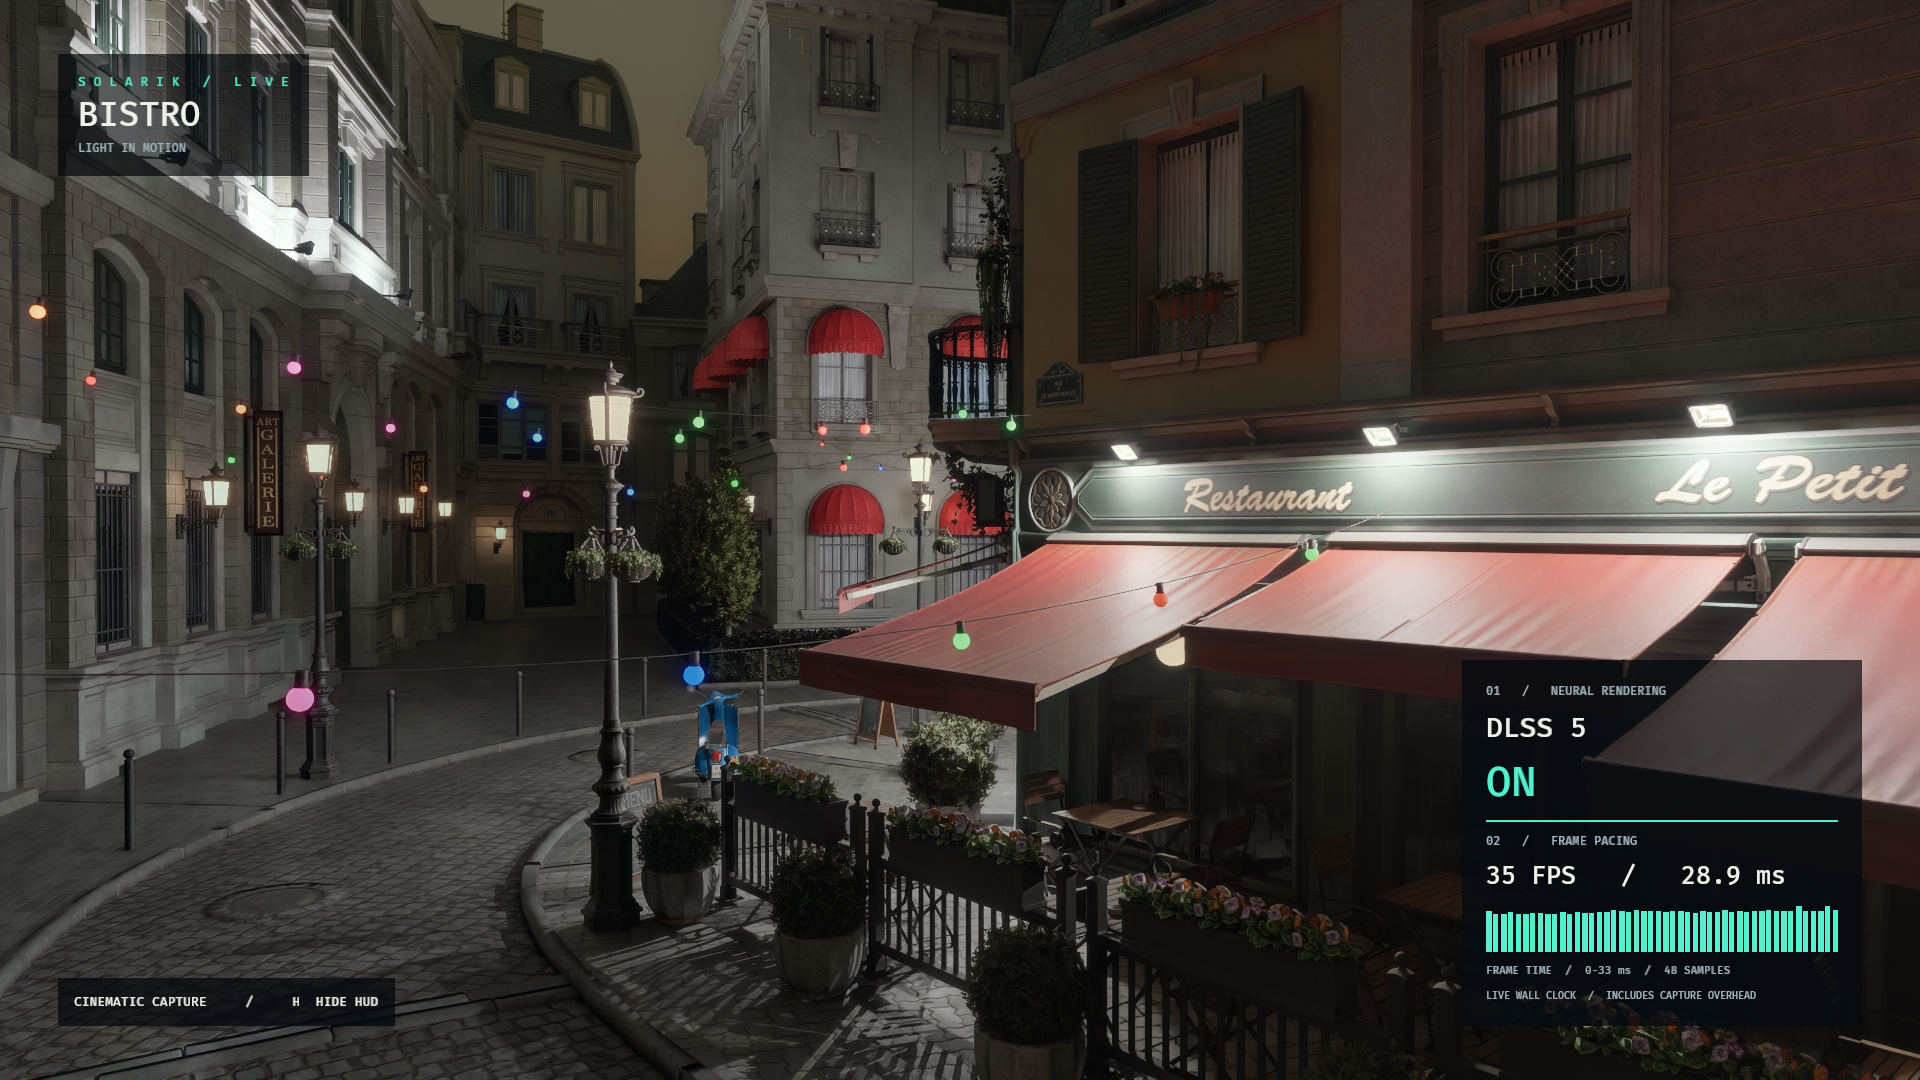
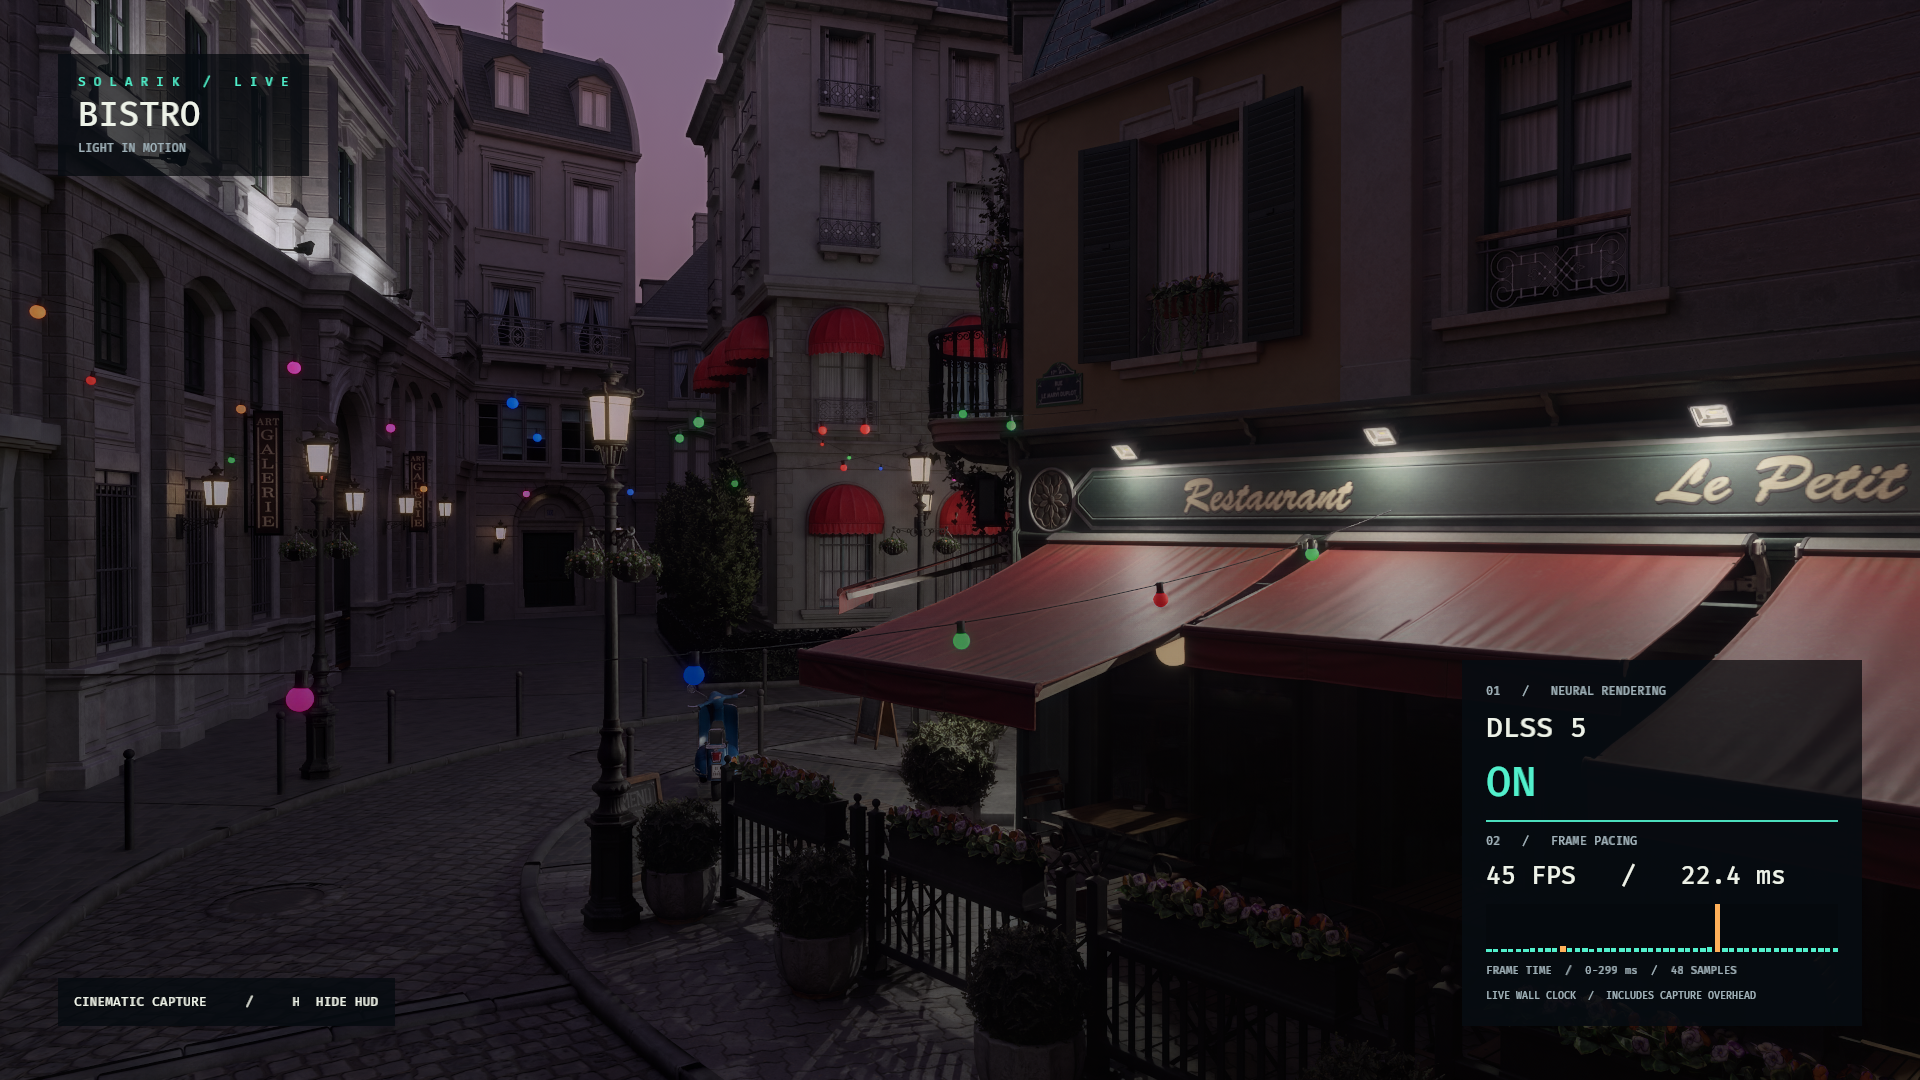
fix: release neural rendering resources before teardown

diff --git a/src/lib.rs b/src/lib.rs
@@ -4,6 +4,7 @@ mod bridge;
 mod ngx;
 pub mod patch;
 
+use bevy::app::AppExit;
 use bevy::camera::{CameraMainTextureUsages, Hdr};
 use bevy::core_pipeline::prepass::{DepthPrepass, MotionVectorPrepass, ViewPrepassTextures};
 use bevy::core_pipeline::tonemapping::tonemapping;
@@ -17,7 +18,7 @@ use bevy::render::sync_component::SyncComponent;
 use bevy::render::sync_component::SyncComponentPlugin;
 use bevy::render::sync_world::{MainEntity, RenderEntity};
 use bevy::render::view::ViewTarget;
-use bevy::render::{Extract, ExtractSchedule, RenderApp};
+use bevy::render::{Extract, ExtractSchedule, Render, RenderApp, RenderSystems};
 
 use bridge::Bridge;
 use ngx::{NgxCore, ResourceVk};
@@ -387,9 +388,11 @@ impl Plugin for DlssNeuralRenderingPlugin {
                 project_id: self.project_id.clone(),
                 status,
                 views: HashMap::new(),
+                device: None,
             }),
         });
         render_app.add_systems(ExtractSchedule, extract_dlss_settings);
+        render_app.add_systems(Render, shutdown_dlss_runtime.in_set(RenderSystems::Cleanup));
         // Must run after tonemapping: feature 18 wants display-referred color,
         // and the sRGB bridge clamps to [0, 1]. Without this constraint the
         // scheduler put the node before tonemapping, the clamp cut the HDR
@@ -417,7 +420,11 @@ fn clear_reset_requests(mut cams: Query<&mut DlssNeuralRendering>) {
 fn extract_dlss_settings(
     mut commands: Commands,
     cams: Extract<Query<(RenderEntity, &DlssNeuralRendering)>>,
+    exits: Extract<Res<Messages<AppExit>>>,
 ) {
+    if !exits.is_empty() {
+        commands.insert_resource(Dlss5Shutdown);
+    }
     for (render_entity, settings) in &cams {
         commands.entity(render_entity).insert(settings.clone());
     }
@@ -426,6 +433,9 @@ fn extract_dlss_settings(
 // ---------------------------------------------------------------------------
 // Render-world runtime (lazily initialized; per-view feature handles)
 // ---------------------------------------------------------------------------
+
+#[derive(Resource)]
+struct Dlss5Shutdown;
 
 #[derive(Resource)]
 struct Dlss5Runtime {
@@ -439,7 +449,56 @@ struct Runtime {
     status: DlssNeuralRenderingStatus,
     /// Keyed by the *main-world* camera entity (stable across frames).
     views: HashMap<Entity, ViewState>,
+    // Keep Vulkan alive until features and the snippet library are released.
+    device: Option<RenderDevice>,
 }
+
+impl Runtime {
+    fn shutdown(&mut self) {
+        let Some(core) = &self.core else {
+            return;
+        };
+        if let Some(device) = &self.device {
+            if let Err(error) = device.poll(wgpu::PollType::wait_indefinitely()) {
+                warn!("bevy_dlss5: waiting for GPU work during shutdown failed: {error}");
+            }
+        }
+        let count = self.views.len();
+        for (_, view) in self.views.drain() {
+            if view.feature != 0 {
+                // SAFETY: this core created the handle, the owning device is
+                // retained, queued work has finished, and shutdown is exclusive.
+                unsafe { core.release_feature(view.feature as *mut c_void) };
+            }
+        }
+        // The bridge textures and feature handles must go before DLL unload.
+        self.core = None;
+        self.device = None;
+        self.failed = true;
+        self.status.set(STATUS_UNKNOWN);
+        info!("bevy_dlss5: released {count} view(s) before runtime shutdown");
+    }
+}
+
+impl Drop for Runtime {
+    fn drop(&mut self) {
+        // Also cover an application dropping its App without an AppExit message.
+        self.shutdown();
+    }
+}
+
+fn shutdown_dlss_runtime(shutdown: Option<Res<Dlss5Shutdown>>, mut runtime: ResMut<Dlss5Runtime>) {
+    if shutdown.is_none() {
+        return;
+    }
+    // Cleanup runs after render submission, while other NGX users (including
+    // Ray Reconstruction) and their SDK resources still exist in the world.
+    match runtime.inner.get_mut() {
+        Ok(inner) => inner.shutdown(),
+        Err(poisoned) => poisoned.into_inner().shutdown(),
+    }
+}
+
 struct ViewState {
     /// Feature-18 handle as usize so ViewState stays Send + Sync. 0 = failed.
     feature: usize,
@@ -513,6 +572,7 @@ fn dlss_nr_node(
             Ok(core) => {
                 info!("bevy_dlss5: DLSS 5 Neural Rendering initialized");
                 guard.status.set(STATUS_ACTIVE);
+                guard.device = Some((*device).clone());
                 guard.core = Some(core);
             }
             Err(reason) => {

diff --git a/src/ngx.rs b/src/ngx.rs
@@ -96,8 +96,8 @@ pub struct NgxCore {
     eval: PfnEval,
     release: PfnRelease,
 }
-// SAFETY: the raw pointers/handles are only touched on the render thread, which
-// this crate serializes behind a Mutex.
+// SAFETY: render access is serialized behind a Mutex. Shutdown has exclusive
+// access, retains the device and waits for submitted work before releasing handles.
 unsafe impl Send for NgxCore {}
 unsafe impl Sync for NgxCore {}
 

diff --git a/docs/captures.md b/docs/captures.md
@@ -1,5 +1,77 @@
 # README capture record
 
+## Current GPU atmosphere images
+
+September 6, 2026 (local): captured from the integrated release build containing
+the GPU clear-sky atmosphere, stable fixed-camera interpolation and shared
+HUD/diagnostic registration, normal capture shutdown and explicit NR resource
+cleanup before runtime unload. Source bases are Solarik `cc1f9e6`, playground
+`460be24` and DLSS5 `4f37244`, plus this iteration's changes.
+Executable SHA-256:
[1 lines of base64/hex data omitted]
+Windows/Vulkan on RTX 4090, NVIDIA Studio driver 616.56; GPU timestamp
+instrumentation disabled for these images. Build with
+`cargo build --release --locked` in the playground. After capture, the staged
+whitespace check removed exactly one trailing newline from `model.wgsl`;
+all other source bytes match the build manifest. The preserved captured shader
+and final artifact audit verify that sole formatting difference.
+
+The original Bistro exterior and matching cafe interior are loaded. Both
+render modes use Solarik and native-resolution DLSS Ray Reconstruction.
+The atmosphere uses the High preset quality, density scales 1, Mie g 0.8,
+2,000 m aerial distance and IBL scale 1. Camera exposure follows the authored
+12.5/5.0 EV100 day/night curve. Local artistic fog and extra grading are off;
+`SCENE_FX=blur` retains the usual camera effects. Camera and lighting stay
+fixed during warmup. Historical `night` filenames below contain dusk views.
+
+All four README images use 1920×1080 rendering: day at timeline 750 / 1800
+with 512 warmup frames, dusk at 1520 / 1800 with 1,024 warmup frames.
+Both full HUD images have Neural Rendering ON. The comparison sources use
+matching camera, exposure and warmup with NR OFF/ON in separate runs.
+
+Independent warmups hold camera and lighting fixed. The metric is regional
+mean sRGB-decoded display-linear luminance with weights (0.2126, 0.7152, 0.0722).
+Absolute changes use the same 0–1 display-linear scale.
+
+| View / region | Rectangle x, y, width, height | Warmup comparison | Luminance change | Absolute change |
+| --- | --- | --- | ---: | ---: |
+| HUD day pavement | 215, 965, 275, 95 | 128 to 512 | -1.12% | -0.000207 |
+| HUD day facade | 1125, 50, 450, 225 | 128 to 512 | -1.81% | -0.000558 |
+| HUD day wall | 555, 590, 250, 165 | 128 to 512 | +0.34% | +0.000029 |
+| HUD dusk pavement | 50, 860, 380, 125 | 512 to 1024 | +0.88% | +0.000087 |
+| HUD dusk facade | 65, 75, 335, 225 | 512 to 1024 | +1.44% | +0.001054 |
+| HUD dusk wall | 1075, 830, 255, 140 | 512 to 1024 | +0.10% | +0.000003 |
+
+These NR-off regional means change at most 1.81% by day and 1.44% at dusk.
+This checks the underlying lighting warmup; it does not establish full convergence
+or quantify NR reconstruction accuracy. All final HUD and comparison images
+were inspected. Shadow variation and foliage softness remain.
+
+The complete set of 16 serial captures exited normally, produced fresh PNGs
+and had no shader/validation errors or Windows NVIDIA driver events. Both NR
+ON logs confirm active evaluation and explicit feature release before shutdown.
+
+The comparison images preserve source pixels on each side of the diagonal.
+Only a three-pixel divider and a 100-pixel external label strip are added.
+The lower-right HUD comes from the ON image. Stochastic lighting differences
+remain between runs, and HUD frame times include capture overhead; these
+pictures do not benchmark the isolated cost of Neural Rendering.
+
+After the release build, reproduce the ON sources from the playground in Git Bash:
+
+```bash
+SCENE=bistro SCENE_HUD=1 NR_RES=1920x1080 NR_START=750 NR_TIMELINE=1800 NR_CAPTURE=1 NR_WARMUP=512 SCENE_FX=blur SCENE_DIAG=0 NR_OUT=../artifacts/bevy-sponza/sky-hud-day-on-512 python tools/launch.py capture on
+SCENE=bistro SCENE_HUD=1 NR_RES=1920x1080 NR_START=1520 NR_TIMELINE=1800 NR_CAPTURE=1 NR_WARMUP=1024 SCENE_FX=blur SCENE_DIAG=0 NR_OUT=../artifacts/bevy-sponza/sky-hud-night-on-1024 python tools/launch.py capture on
+```
+
+Repeat with `capture off` and distinct output directories for the OFF sources.
+Local `sky_*` scripts and `sky-*.json` receipts live under the organizer's
+`artifacts/bevy-sponza/`. The inventory verifies all 12 README images in the
+three active repositories and byte-identical copies of these four assets in
+the playground. Scene attribution remains in the README.
+
+## Earlier GI foliage endpoint images
+
 September 6, 2026: all four README images are refreshed with Solarik `cc1f9e6`
 (GI foliage endpoints), and playground `90f532a`. These are
 development renderer captures beyond the tagged Solarik release. The matching

diff --git a/README.md b/README.md
@@ -39,12 +39,11 @@ pixel-exact measurement of Neural Rendering alone.
 
 The HUD reports live backend status, FPS and application frame times. Timings
 include capture overhead; these images are not an ON/OFF performance comparison.
-Refreshed September 6, 2026 with Solarik `cc1f9e6` (GI foliage endpoints)
-and playground `90f532a`, including the matching Bistro interior. These use
-frames 750 (day) and 1520 (dusk) of the 1,800-frame timeline, with 512 and
-1,024 fixed-pose warmup frames respectively. Scene exposure, lights and fog/blur
-use the preset; additional grading is disabled. Shadow variation and soft
-foliage remain. [Capture settings and settling checks](docs/captures.md)
+Refreshed September 6, 2026 with Solarik's GPU atmosphere and the matching
+Bistro interior. These use frames 750 (day) and 1520 (dusk) of the 1,800-frame
+timeline, with 512 and 1,024 fixed-pose warmup frames respectively. Exposure,
+lights and motion blur use the scene preset; extra grading and local artistic
+fog are disabled. Shadow variation and soft foliage remain. [Capture settings and settling checks](docs/captures.md)
 document the refreshed images.
 
 Scene: [Amazon Lumberyard Bistro, via NVIDIA ORCA](https://developer.nvidia.com/orca/amazon-lumberyard-bistro),
@@ -153,6 +152,9 @@ The [minimal example](examples/minimal.rs) creates a small scene and lets you to
 - Feature 18 wants gamma encoded display-referred color, Bevy's post tonemap texture is linear. Two tiny compute passes convert to sRGB before and back to linear after. Skip this and you get red hallucinations everywhere.
 - The "after tonemapping" part matters. An earlier version had no ordering constraint, the scheduler ran the node before tonemapping, and the sRGB pass clamped the HDR frame at linear 1.0. Nothing on the NR side could get brighter than what the tonemapper makes of 1.0 (about 198/255 with TonyMcMapface), so emissives, bloom and sun patches all came out dimmer than with NR off. If you fork this, keep the `.after(tonemapping)`.
 - Depth and motion vectors come from the prepasses the component requires.
+- On `AppExit`, render cleanup waits for GPU work and releases NR features and
+  bridge textures before unloading the runtime. This runs while other NGX
+  consumers still exist. Applications should use Bevy's normal exit lifecycle.
 
 ## About patching the DLL
 

diff --git a/CHANGELOG.md b/CHANGELOG.md
@@ -1,5 +1,11 @@
 # Changelog
 
+## Unreleased
+
+- Keep the render device alive through NR shutdown, wait for GPU work, and
+  release feature handles and bridge textures before unloading the runtime DLL.
+- Handle application exit in render cleanup while other NGX consumers remain alive.
+
 ## 0.1.1 — 2026-09-06
 
 First tagged release.
